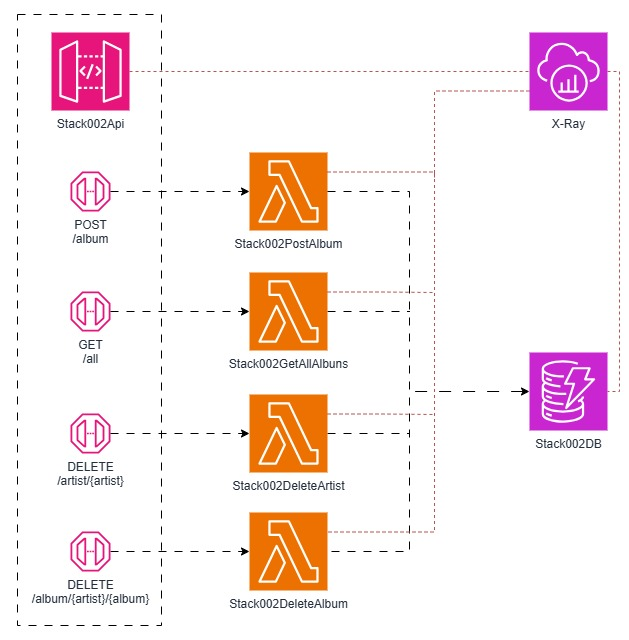
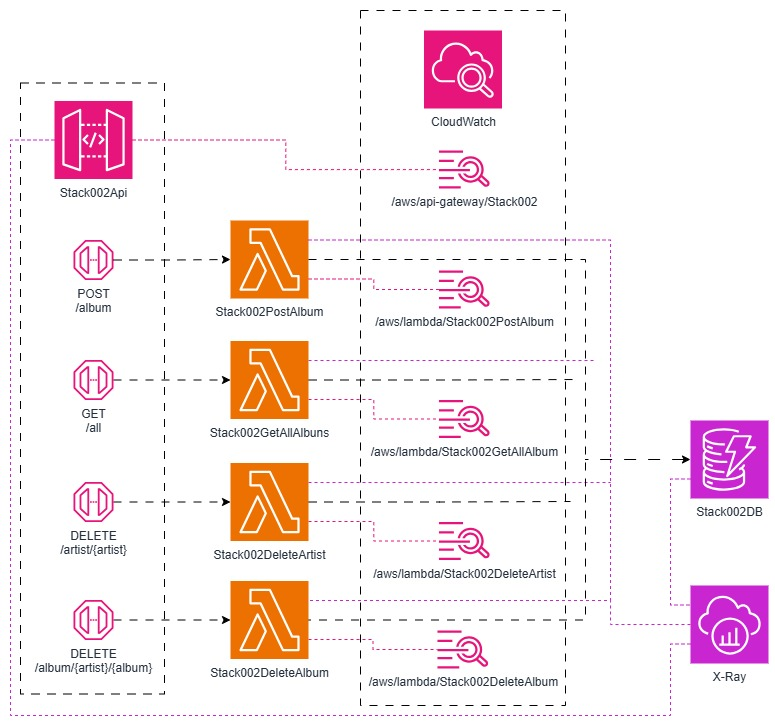
add log to api gatewau from stack002

diff --git a/lib/stack002/stack002.ts b/lib/stack002/stack002.ts
@@ -1,8 +1,9 @@
 import { NestedStack, NestedStackProps, RemovalPolicy } from "aws-cdk-lib";
-import { JsonSchema, JsonSchemaType, JsonSchemaVersion, LambdaIntegration, Model, RequestValidator, RestApi } from "aws-cdk-lib/aws-apigateway";
+import { AccessLogFormat, JsonSchema, JsonSchemaType, JsonSchemaVersion, LambdaIntegration, LogGroupLogDestination, MethodLoggingLevel, Model, RequestValidator, RestApi } from "aws-cdk-lib/aws-apigateway";
 import { AttributeType, TableV2 } from "aws-cdk-lib/aws-dynamodb";
 import { Architecture, Runtime, Tracing } from "aws-cdk-lib/aws-lambda";
 import { NodejsFunction } from "aws-cdk-lib/aws-lambda-nodejs";
+import { LogGroup } from "aws-cdk-lib/aws-logs";
 import { Construct } from "constructs";
 import { join } from "path";
 
@@ -26,10 +27,27 @@ export class Stack002NestedStack extends NestedStack {
     // Table
 
     // RestApi
+    const apiLogGroup = new LogGroup(this, "ApiLogGroup", {
+      logGroupName: "/aws/api-gateway/Stack002Api",
+      removalPolicy: RemovalPolicy.DESTROY,
+    });
     const api = new RestApi(this, "RestApiGateway", {
       restApiName: "Stack002Api",
       deployOptions: {
         tracingEnabled: true,
+        loggingLevel: MethodLoggingLevel.INFO,
+        accessLogDestination: new LogGroupLogDestination(apiLogGroup),
+        accessLogFormat: AccessLogFormat.jsonWithStandardFields({
+          ip: true,
+          caller: true,
+          user: true,
+          requestTime: true,
+          httpMethod: true,
+          protocol: true,
+          resourcePath: true,
+          status: true,
+          responseLength: true,
+        }),
       },
     });
 

diff --git a/lib/cdk-examples-stack.ts b/lib/cdk-examples-stack.ts
@@ -1,7 +1,7 @@
 import { Stack, StackProps } from 'aws-cdk-lib/core';
 import { Construct } from 'constructs';
 import { Stack001NestedStack } from './stack001/stack001';
-// import { Stack002NestedStack } from './stack002/stack002';
+import { Stack002NestedStack } from './stack002/stack002';
 // import { Stack003NestedStack } from './stack003/stack003';
 
 export class CdkExamplesStack extends Stack {
@@ -9,7 +9,7 @@ export class CdkExamplesStack extends Stack {
     super(scope, id, props);
 
     new Stack001NestedStack(this, "Stack001", props);
-    // new Stack002NestedStack(this, "Stack002", props);
+    new Stack002NestedStack(this, "Stack002", props);
     // new Stack003NestedStack(this, "Stack003", props);
   }
 }
